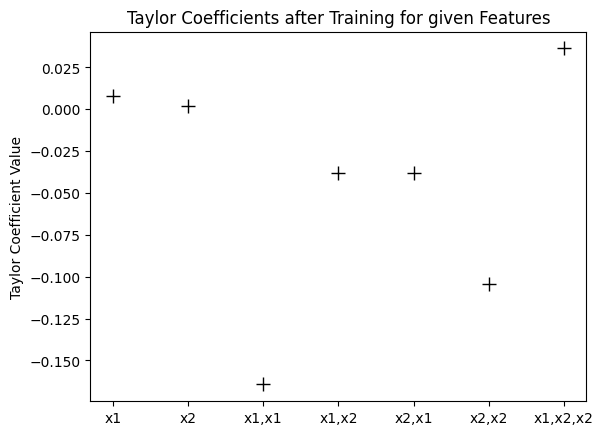
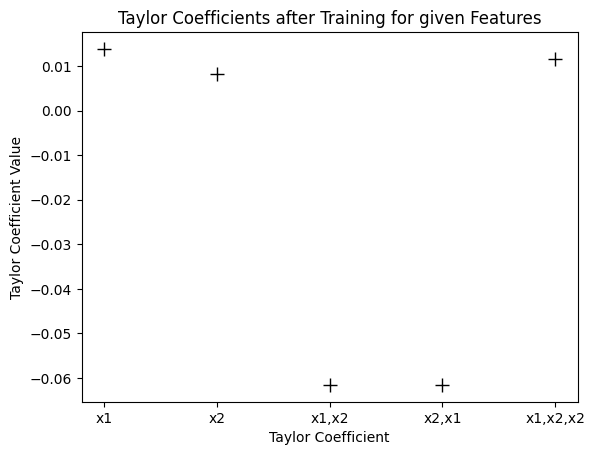
use itertools & update plots

diff --git a/example/example.py b/example/example.py
@@ -1,8 +1,9 @@
 import torch
 import matplotlib.pyplot as plt
+import itertools
 
 from torch import nn
-from helpers import gen_data, Mlp, plot_data, generate_combinations
+from helpers import gen_data, Mlp, plot_data
 from tayloranalysis.model_extension import extend_model
 from sklearn.model_selection import train_test_split
 
@@ -35,13 +36,13 @@ y_train = y_train.to(device)
 model.to(device)
 
 # specify the features for which the taylor coefficients should be calculated
-# feel free to copy the generate_combinations function from the helpers.py file
-combinations = (
-    [0, 1]  # 1st order taylor coefficients
-    + generate_combinations(numbers=[0, 1], length=2)  # 2nd order taylor coefficients
-    + [[0, 1, 1]]  # exemplary 3rd order taylor coefficient
-)
+combinations = [[0], [1]]  # 1st order taylor coefficients
+combinations += [
+    list(i) for i in itertools.permutations([0, 1], 2)  # 2nd order taylor coefficients
+]
+combinations += [[0, 1, 1]]  # exemplary 3rd order taylor coefficient
 
+print(combinations)
 tcs_training = []
 x_train.requires_grad = True
 for epoch in range(250):
